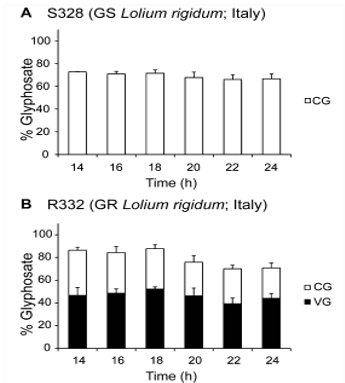
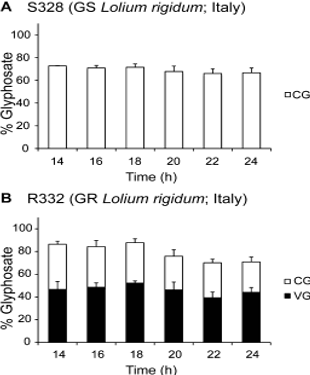
lol

Changed region(s): [[0.0, 0.0, 1.0, 0.5573], [0.0, 0.5867, 0.871, 1.0], [0.871, 0.7333, 1.0, 0.8213]]

diff --git a/docs/resistenceofweeds.html b/docs/resistenceofweeds.html
@@ -136,7 +136,9 @@ class: middle
 
 A planta compatibiliza o herbicida no vacúolo, no vacúolo o herbicida eh degradado e o herbicida é inativado e não ocorre o controle da planta daninha não ocorre.
 
-![](https://github.com/vitoranunciato/weedresistBR/blob/main/docs/resistenceofweeds_files/figure-html/selection_of_weeds/sequestro.png?raw=true)
+.pull-left[![](https://github.com/vitoranunciato/weedresistBR/blob/main/docs/resistenceofweeds_files/figure-html/selection_of_weeds/sequestro.png?raw=true)]
+
+.pull-rigth[![](https://github.com/vitoranunciato/weedresistBR/blob/main/docs/resistenceofweeds_files/figure-html/selection_of_weeds/vacuolo.jpg?raw=true)]
 
 ---
 class: inverse, middle
